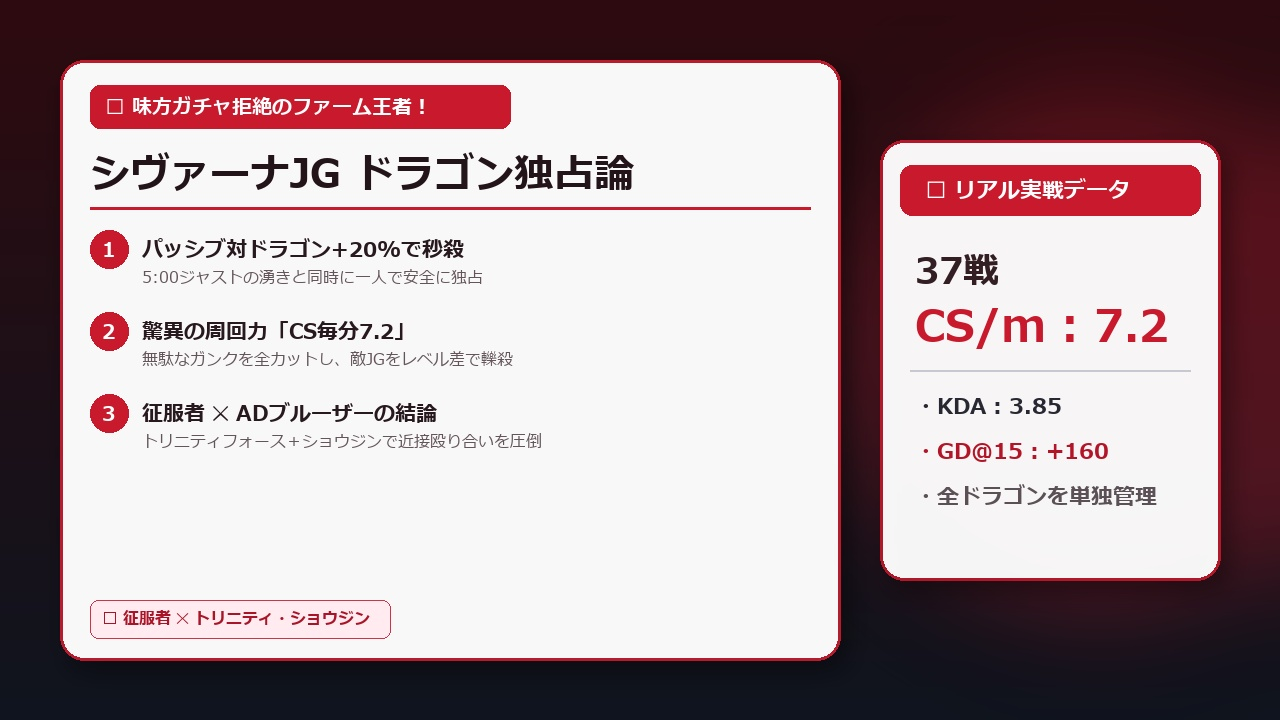
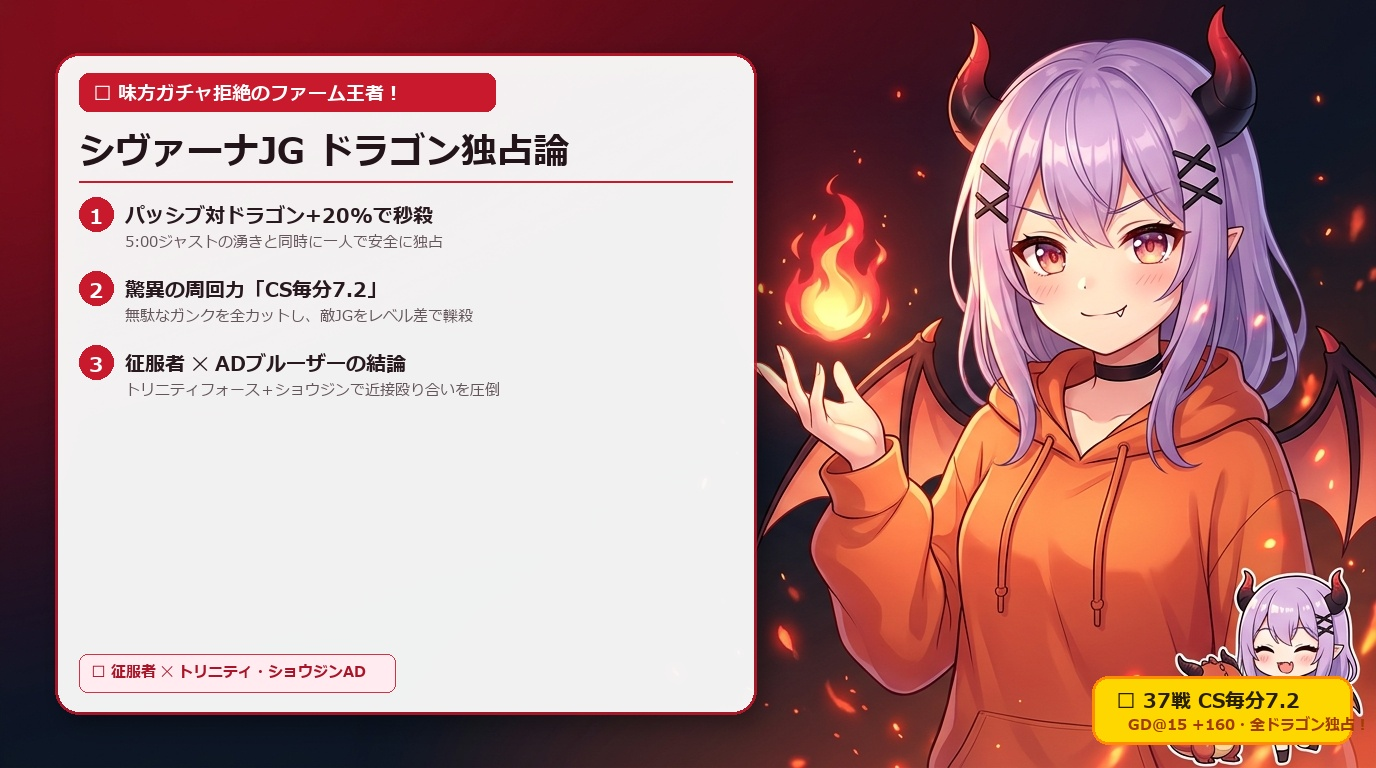
feat(note): 看板娘＆ミニSDイラスト入りの可愛いサムネイルへ全面リニューアル

diff --git a/02_FACTORY/01_DRAFTS/note/assets/compose_cute_thumbnails.py b/02_FACTORY/01_DRAFTS/note/assets/compose_cute_thumbnails.py
@@ -1,0 +1,187 @@
+import os
+from PIL import Image, ImageDraw, ImageFont, ImageFilter
+
+font_bold = r"C:\Windows\Fonts\meiryob.ttc"
+font_reg = r"C:\Windows\Fonts\meiryo.ttc"
+
+# ==========================================
+# 共通カード描画ヘルパー
+# ==========================================
+def draw_frosted_card(base, card_x0, card_y0, card_x1, card_y1, radius=22, bg_color=(255, 255, 255, 238), border_color=(255, 140, 0, 200)):
+    W, H = base.size
+    shadow = Image.new("RGBA", (W, H), (0, 0, 0, 0))
+    s_draw = ImageDraw.Draw(shadow)
+    s_draw.rounded_rectangle([card_x0+8, card_y0+10, card_x1+8, card_y1+10], radius=radius, fill=(0, 0, 0, 90))
+    shadow = shadow.filter(ImageFilter.GaussianBlur(12))
+    base = Image.alpha_composite(base, shadow)
+
+    overlay = Image.new("RGBA", (W, H), (0, 0, 0, 0))
+    o_draw = ImageDraw.Draw(overlay)
+    o_draw.rounded_rectangle([card_x0, card_y0, card_x1, card_y1], radius=radius, fill=bg_color, outline=border_color, width=3)
+    base = Image.alpha_composite(base, overlay)
+    return base
+
+# ----------------------------------------------------
+# 1. ザイラJG サムネイル (zyra_jg_thumb.jpg)
+# ----------------------------------------------------
+def build_zyra():
+    src = r"C:\Users\PC_User\.gemini\antigravity\brain\b87c1b24-a2b2-4379-b780-13c1525109ad\zyra_illust_1793372903425.jpg"
+    base = Image.open(src).convert("RGBA")
+    W, H = base.size # 1376 x 768
+
+    card_x0, card_y0 = int(W * 0.04), int(H * 0.07)
+    card_x1, card_y1 = int(W * 0.55), int(H * 0.93)
+    base = draw_frosted_card(base, card_x0, card_y0, card_x1, card_y1, radius=24, bg_color=(255, 255, 255, 240), border_color=(130, 30, 180, 200))
+    draw = ImageDraw.Draw(base)
+
+    f_ribbon = ImageFont.truetype(font_bold, 19)
+    f_title = ImageFont.truetype(font_bold, 36)
+    f_num = ImageFont.truetype(font_bold, 21)
+    f_item = ImageFont.truetype(font_bold, 20)
+    f_sub = ImageFont.truetype(font_reg, 15)
+    f_badge = ImageFont.truetype(font_bold, 20)
+
+    # リボン
+    draw.rounded_rectangle([card_x0+24, card_y0+20, card_x0+400, card_y0+58], radius=10, fill=(130, 30, 180, 245))
+    draw.text((card_x0+38, card_y0+26), "🌿 味方を捨てて一人で勝つ！", font=f_ribbon, fill=(255, 255, 255, 255))
+
+    # タイトル
+    draw.text((card_x0+24, card_y0+72), "ザイラJG 低ランク脱出攻略", font=f_title, fill=(25, 20, 35, 255))
+    draw.line([(card_x0+24, card_y0+128), (card_x1-24, card_y0+128)], fill=(130, 30, 180, 160), width=2)
+
+    # 3箇条
+    items = [
+        ("1", "0:41種固定 ➔ 2:25爆速フルクリア", "HP100%維持！スカトルに30秒先行する秒単位手順"),
+        ("2", "5:00グラブ＆ドラゴンを単独消滅", "味方の寄りを待たずに一人でオブジェクトを削り切る"),
+        ("3", "視界外からの「E-W-W-R」トラップ", "狭い通路で固まった敵集団をツルの海で即蒸発させる")
+    ]
+    curr_y = card_y0 + 144
+    for num, title, sub in items:
+        draw.ellipse([card_x0+24, curr_y, card_x0+58, curr_y+34], fill=(130, 30, 180, 240))
+        draw.text((card_x0+34, curr_y+4), num, font=f_num, fill=(255, 255, 255, 255))
+        draw.text((card_x0+70, curr_y+4), title, font=f_item, fill=(30, 25, 40, 255))
+        draw.text((card_x0+70, curr_y+34), sub, font=f_sub, fill=(90, 85, 100, 255))
+        curr_y += 74
+
+    # 最新パッチバフタグピル
+    draw.rounded_rectangle([card_x0+24, card_y1-60, card_x0+320, card_y1-22], radius=8, fill=(245, 235, 255, 255), outline=(160, 100, 220, 200), width=1)
+    draw.text((card_x0+36, card_y1-53), "⚡ 直近パッチW強化 ✕ 覇道・栄華", font=ImageFont.truetype(font_bold, 15), fill=(100, 30, 150, 255))
+
+    # 右下バッジ「129戦 勝率60.5%」
+    bw, bh = 260, 68
+    bx0, by0 = W - bw - 24, H - bh - 24
+    draw.rounded_rectangle([bx0, by0, bx0+bw, by0+bh], radius=16, fill=(255, 215, 0, 245), outline=(255, 140, 0, 255), width=3)
+    draw.text((bx0+24, by0+10), "🏆 129戦 勝率60.5%", font=f_badge, fill=(40, 30, 0, 255))
+    draw.text((bx0+36, by0+38), "ブロンズ ➔ プラチナ昇格！", font=ImageFont.truetype(font_bold, 15), fill=(160, 60, 0, 255))
+
+    out_p = r"d:\my_work\02_FACTORY\01_DRAFTS\note\assets\zyra_jg_thumb.jpg"
+    base.convert("RGB").save(out_p, quality=95)
+    print("Built Zyra thumb:", out_p)
+
+# ----------------------------------------------------
+# 2. ウーコンJG サムネイル (wukong_jg_thumb.jpg)
+# ----------------------------------------------------
+def build_wukong():
+    src = r"C:\Users\PC_User\.gemini\antigravity\brain\b87c1b24-a2b2-4379-b780-13c1525109ad\wukong_illust_1793372925757.jpg"
+    base = Image.open(src).convert("RGBA")
+    W, H = base.size
+
+    card_x0, card_y0 = int(W * 0.04), int(H * 0.07)
+    card_x1, card_y1 = int(W * 0.55), int(H * 0.93)
+    base = draw_frosted_card(base, card_x0, card_y0, card_x1, card_y1, radius=24, bg_color=(255, 255, 255, 240), border_color=(230, 85, 0, 200))
+    draw = ImageDraw.Draw(base)
+
+    f_ribbon = ImageFont.truetype(font_bold, 19)
+    f_title = ImageFont.truetype(font_bold, 36)
+    f_num = ImageFont.truetype(font_bold, 21)
+    f_item = ImageFont.truetype(font_bold, 20)
+    f_sub = ImageFont.truetype(font_reg, 15)
+    f_badge = ImageFont.truetype(font_bold, 20)
+
+    draw.rounded_rectangle([card_x0+24, card_y0+20, card_x0+420, card_y0+58], radius=10, fill=(230, 85, 0, 245))
+    draw.text((card_x0+38, card_y0+26), "🐒 味方がAP過多なら猿を出せ！", font=f_ribbon, fill=(255, 255, 255, 255))
+
+    draw.text((card_x0+24, card_y0+72), "ウーコンJG 集団戦破壊論", font=f_title, fill=(35, 25, 20, 255))
+    draw.line([(card_x0+24, card_y0+128), (card_x1-24, card_y0+128)], fill=(230, 85, 0, 160), width=2)
+
+    items = [
+        ("1", "Wデコイで敵スキルを空振りさせる", "ステルス接近から安全に敵キャリーの真横へ滑り込む"),
+        ("2", "Rの「2回ノックアップ」という暴力", "1回目で跳ね上げ、Qを挟んで2回目で全員を完全機能停止"),
+        ("3", "征服者 ✕ トリニティフォースAD型", "硬気功パッシブとサンダードスカイで殴り負けゼロ")
+    ]
+    curr_y = card_y0 + 144
+    for num, title, sub in items:
+        draw.ellipse([card_x0+24, curr_y, card_x0+58, curr_y+34], fill=(230, 85, 0, 240))
+        draw.text((card_x0+34, curr_y+4), num, font=f_num, fill=(255, 255, 255, 255))
+        draw.text((card_x0+70, curr_y+4), title, font=f_item, fill=(40, 30, 25, 255))
+        draw.text((card_x0+70, curr_y+34), sub, font=f_sub, fill=(100, 90, 85, 255))
+        curr_y += 74
+
+    draw.rounded_rectangle([card_x0+24, card_y1-60, card_x0+320, card_y1-22], radius=8, fill=(255, 245, 235, 255), outline=(230, 120, 50, 200), width=1)
+    draw.text((card_x0+36, card_y1-53), "⚡ 征服者 ✕ サンダードスカイAD", font=ImageFont.truetype(font_bold, 15), fill=(180, 60, 0, 255))
+
+    bw, bh = 260, 68
+    bx0, by0 = W - bw - 24, H - bh - 24
+    draw.rounded_rectangle([bx0, by0, bx0+bw, by0+bh], radius=16, fill=(255, 215, 0, 245), outline=(255, 140, 0, 255), width=3)
+    draw.text((bx0+24, by0+10), "🏆 34戦 勝率55.9%", font=f_badge, fill=(40, 30, 0, 255))
+    draw.text((bx0+36, by0+38), "15分ゴールド差 GD@15 +267！", font=ImageFont.truetype(font_bold, 15), fill=(160, 60, 0, 255))
+
+    out_p = r"d:\my_work\02_FACTORY\01_DRAFTS\note\assets\wukong_jg_thumb.jpg"
+    base.convert("RGB").save(out_p, quality=95)
+    print("Built Wukong thumb:", out_p)
+
+# ----------------------------------------------------
+# 3. シヴァーナJG サムネイル (shyvana_jg_thumb.jpg)
+# ----------------------------------------------------
+def build_shyvana():
+    src = r"C:\Users\PC_User\.gemini\antigravity\brain\b87c1b24-a2b2-4379-b780-13c1525109ad\shyvana_illust_1793372946021.jpg"
+    base = Image.open(src).convert("RGBA")
+    W, H = base.size
+
+    card_x0, card_y0 = int(W * 0.04), int(H * 0.07)
+    card_x1, card_y1 = int(W * 0.55), int(H * 0.93)
+    base = draw_frosted_card(base, card_x0, card_y0, card_x1, card_y1, radius=24, bg_color=(255, 255, 255, 240), border_color=(200, 25, 45, 200))
+    draw = ImageDraw.Draw(base)
+
+    f_ribbon = ImageFont.truetype(font_bold, 19)
+    f_title = ImageFont.truetype(font_bold, 36)
+    f_num = ImageFont.truetype(font_bold, 21)
+    f_item = ImageFont.truetype(font_bold, 20)
+    f_sub = ImageFont.truetype(font_reg, 15)
+    f_badge = ImageFont.truetype(font_bold, 20)
+
+    draw.rounded_rectangle([card_x0+24, card_y0+20, card_x0+440, card_y0+58], radius=10, fill=(200, 25, 45, 245))
+    draw.text((card_x0+38, card_y0+26), "🐉 味方ガチャ拒絶のファーム王者！", font=f_ribbon, fill=(255, 255, 255, 255))
+
+    draw.text((card_x0+24, card_y0+72), "シヴァーナJG ドラゴン独占論", font=f_title, fill=(35, 20, 25, 255))
+    draw.line([(card_x0+24, card_y0+128), (card_x1-24, card_y0+128)], fill=(200, 25, 45, 160), width=2)
+
+    items = [
+        ("1", "パッシブ対ドラゴン+20%で秒殺", "5:00ジャストの湧きと同時に一人で安全に独占"),
+        ("2", "驚異の周回力「CS毎分7.2」", "無駄なガンクを全カットし、敵JGをレベル差で轢殺"),
+        ("3", "征服者 ✕ ADブルーザーの結論", "トリニティフォース＋ショウジンで近接殴り合いを圧倒")
+    ]
+    curr_y = card_y0 + 144
+    for num, title, sub in items:
+        draw.ellipse([card_x0+24, curr_y, card_x0+58, curr_y+34], fill=(200, 25, 45, 240))
+        draw.text((card_x0+34, curr_y+4), num, font=f_num, fill=(255, 255, 255, 255))
+        draw.text((card_x0+70, curr_y+4), title, font=f_item, fill=(40, 25, 30, 255))
+        draw.text((card_x0+70, curr_y+34), sub, font=f_sub, fill=(100, 85, 90, 255))
+        curr_y += 74
+
+    draw.rounded_rectangle([card_x0+24, card_y1-60, card_x0+340, card_y1-22], radius=8, fill=(255, 235, 240, 255), outline=(210, 50, 70, 200), width=1)
+    draw.text((card_x0+36, card_y1-53), "⚡ 征服者 ✕ トリニティ・ショウジンAD", font=ImageFont.truetype(font_bold, 15), fill=(170, 20, 40, 255))
+
+    bw, bh = 260, 68
+    bx0, by0 = W - bw - 24, H - bh - 24
+    draw.rounded_rectangle([bx0, by0, bx0+bw, by0+bh], radius=16, fill=(255, 215, 0, 245), outline=(255, 140, 0, 255), width=3)
+    draw.text((bx0+24, by0+10), "🏆 37戦 CS毎分7.2", font=f_badge, fill=(40, 30, 0, 255))
+    draw.text((bx0+36, by0+38), "GD@15 +160・全ドラゴン独占！", font=ImageFont.truetype(font_bold, 15), fill=(160, 60, 0, 255))
+
+    out_p = r"d:\my_work\02_FACTORY\01_DRAFTS\note\assets\shyvana_jg_thumb.jpg"
+    base.convert("RGB").save(out_p, quality=95)
+    print("Built Shyvana thumb:", out_p)
+
+build_zyra()
+build_wukong()
+build_shyvana()
